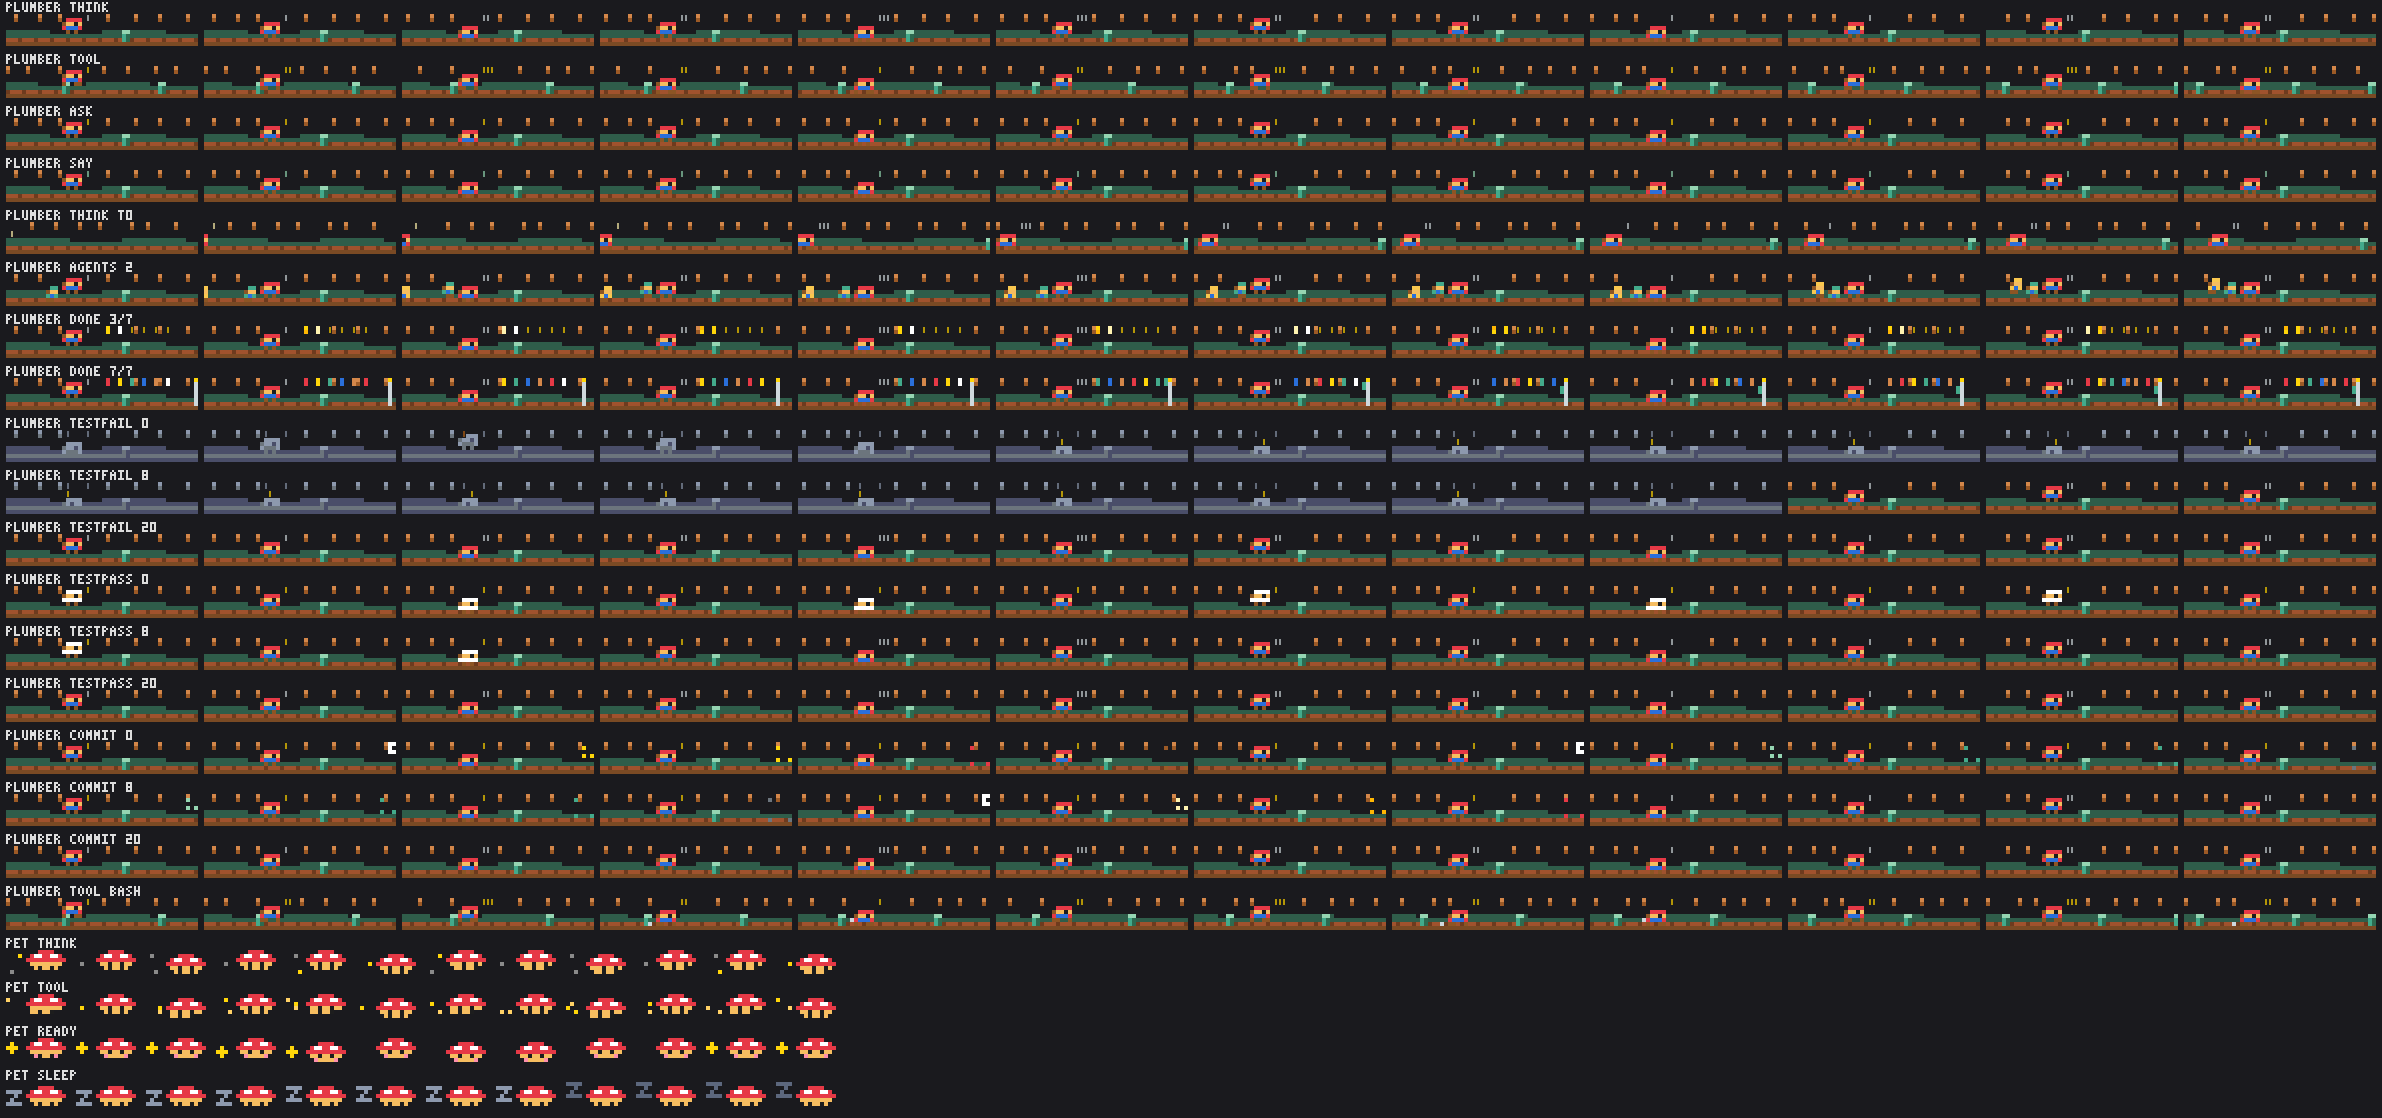
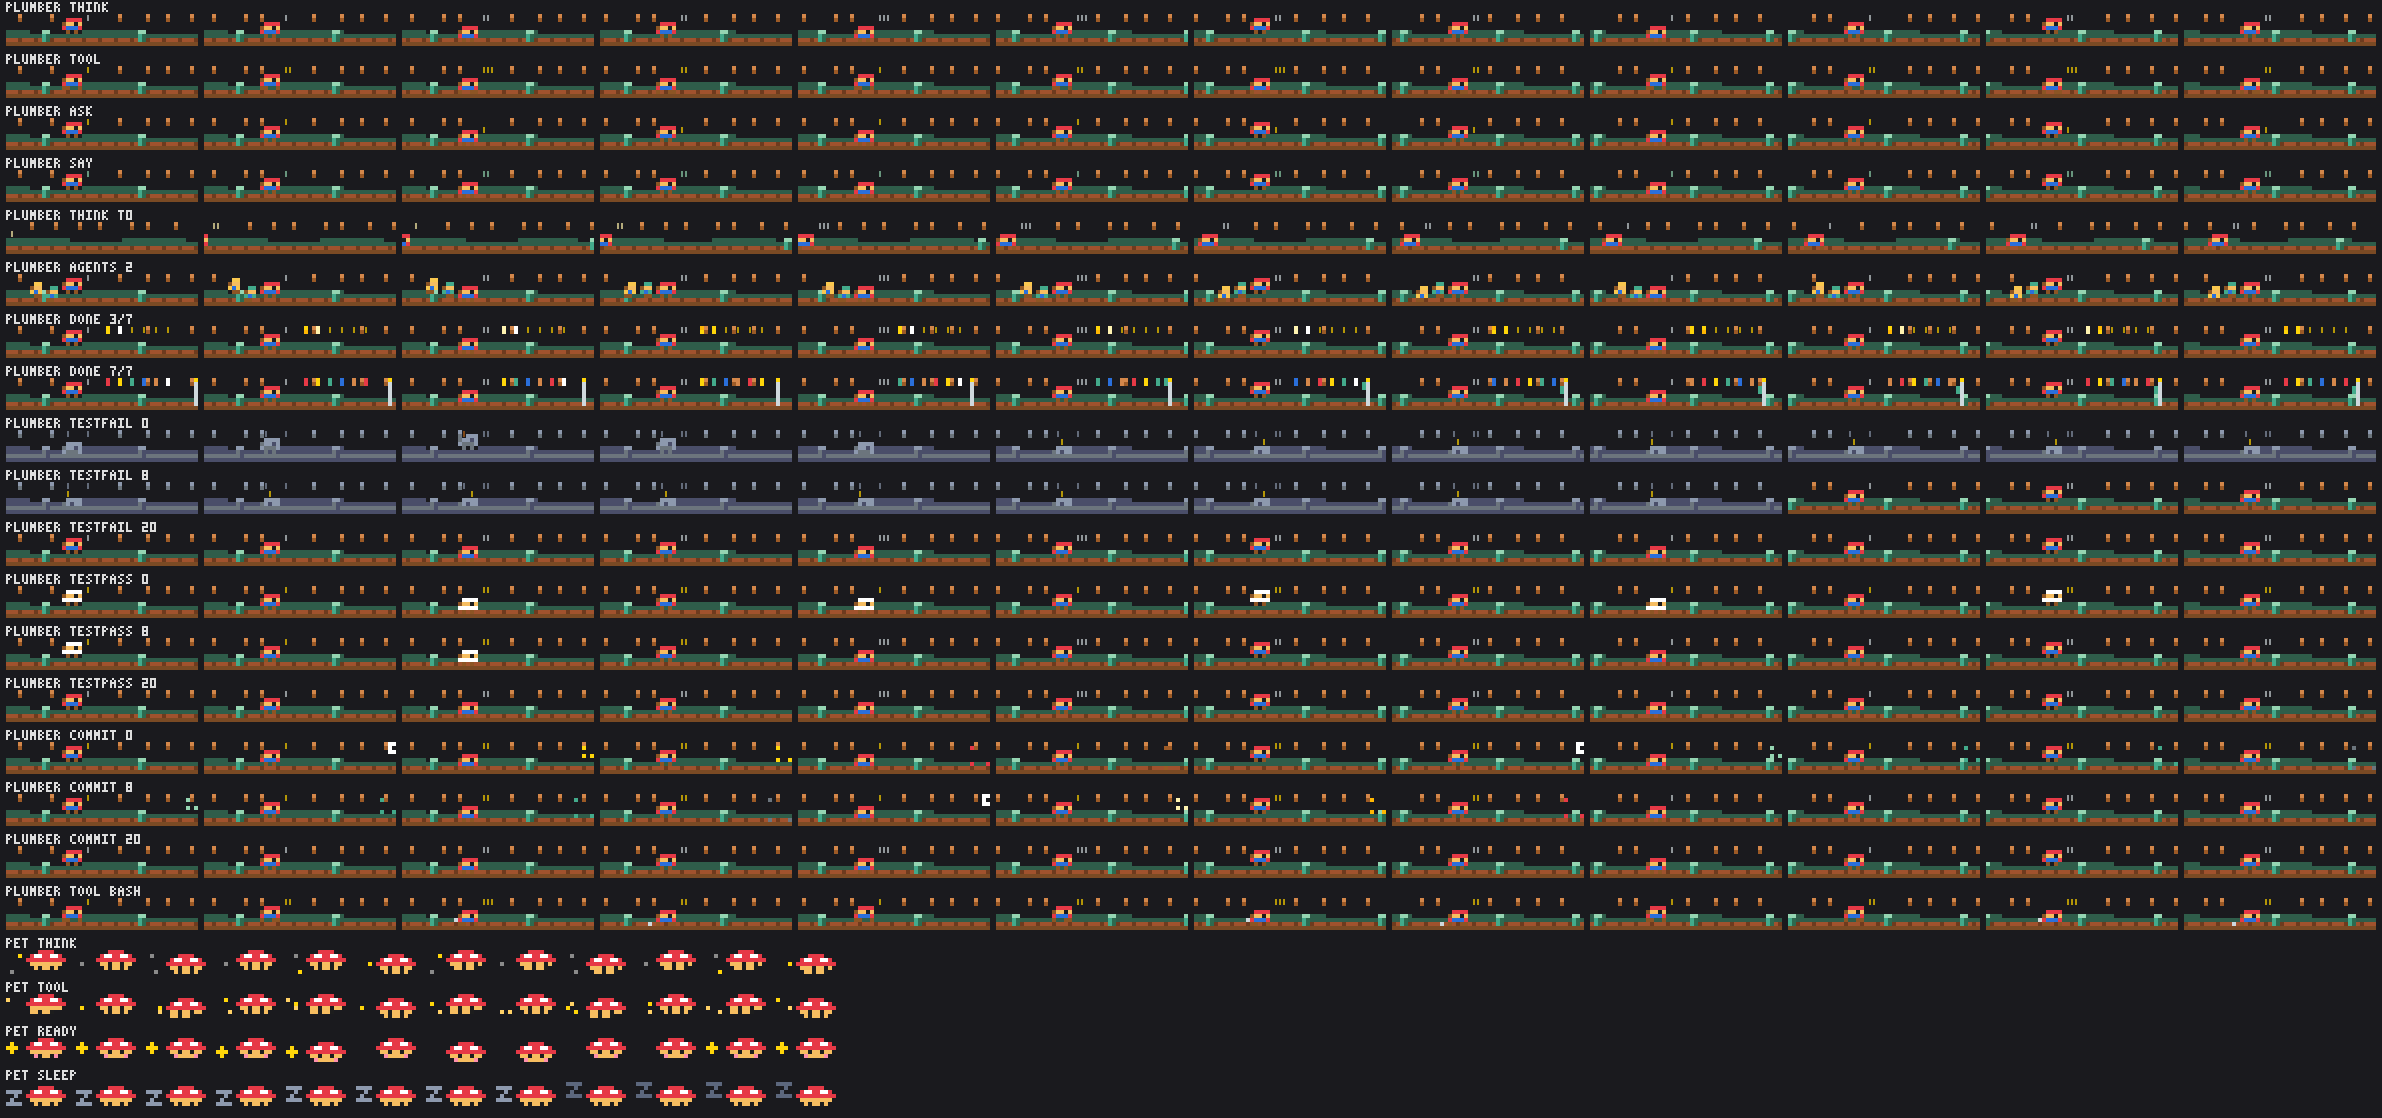
showtime: plumber — scroll on t only and agents greeting in place (review fixes); the near layer a cell a frame in every act with the bricks at half and the hills at a quarter, so a tool act ending no longer snaps the pipes, ground, hills and bricks back (the tool's pace shows as the run cadence, th

diff --git a/showtime/hooks/themes/plumber.ts b/showtime/hooks/themes/plumber.ts
@@ -1,28 +1,27 @@
 // Theme: plumber. Its scene, its words and its pet.
 //
-// The scene: a platformer runner (#e63946) in the left third, the world scrolling past him in three
-// layers: dim hills far (pixel rows 4–5, slowest), single-cell bricks mid along the top row (half the
-// near speed), pipes and the brick ground near (a cell a frame while a tool runs, else every other).
-// Idle, he bounces in place on a twelve-frame cycle while the pipes pass behind him, a sign ahead of
-// his head reading the act (dots, `?`, a note); in a tool he runs, a four-frame step with a hop, the
-// tool's mark for a sign, and jumps each pipe in a six-frame arc (bash: legs every frame, dust). Tasks:
-// `total` ? blocks along the top right (floor-scaled), `done` of them coins spinning on four frames,
-// the newest flashing; at 100% the coins roll colours and a flagpole slides in from the right edge,
-// its flag running down. Each subagent (four at most) is a smaller runner trailing him out of step,
-// running in from the left edge and hopping as it joins. A failed test greys the world: a ? block
-// appears over his head, he bonks it and sits twelve frames under a circling star. A passed test
-// flashes him white under a ★. A commit: three bursts of fireworks over the flag, sixteen frames.
+// The scene: a platformer runner (#e63946) in the left third, the world scrolling past him a cell a
+// frame in three layers: dim hills far (pixel rows 4–5, a quarter of the speed), single-cell bricks
+// mid along the top row (half), pipes and the brick ground near. He walks in from the left edge, then
+// bounces in place on a twelve-frame cycle while idle, a sign ahead of his head reading the act (dots,
+// a bobbing `?`, notes); in a tool he runs, a four-frame step with a hop, the tool's mark for a sign
+// (bash: legs every frame, dust). He jumps each pipe in a six-frame arc. Tasks: `total` ? blocks along
+// the top right (floor-scaled), `done` of them coins spinning on four frames, the newest flashing; at
+// 100% the coins roll colours and a flagpole slides in from the right edge, its flag running down.
+// Each subagent (four at most) is a smaller runner trailing him out of step, hopping in place as it
+// joins. A failed test greys the world: a ? block appears over his head, he bonks it and sits twelve
+// frames under a circling star. A passed test flashes him white under a ★. A commit: three bursts of
+// fireworks over the flag (the right edge without one), sixteen frames.
 //
 // Motion rules (tests/scenes.test.ts): the hills fill pixel row 5 and the ground rows 6–7 across the
-// width, so the test sees cell rows 0–1 only. Every pixel row of a runner starts within a column of its
-// left edge, so his own rows anchor him as he hops; the bounce is a closed walk of single steps two
-// cells high (an idle frame always changes), in a tool the hop and the bricks step on alternate frames
-// and the sign's dot tail every frame, and nothing hops, bonks or sits while walking in. Bricks are
-// single cells four or more apart (a mover in a one-column gap merges two still cells, then exposes one
-// two off; the ? blocks are three apart for that) and skip the zone from the last parked runner to past
+// width, so the test sees cell rows 0–1 only. The bricks step on odd frames and every sign changes its
+// ink on even frames, so a frame never holds. Every pixel row of a runner starts within a column of
+// its left edge, so his own rows anchor him as he hops; the bounce is a walk of single steps two cells
+// high, the arc starts and ends a cell up, and nothing hops, bonks or sits while walking in. Bricks are
+// single cells four or more apart (a mover in a one-column gap merges two still cells, then exposes
+// one two off; the ? blocks are three apart for that) and skip the zone from the last runner to past
 // the sign, coming out a column from a cap. The bonk block and the star start beside his cap, the flag
-// beside a pole that has stood a frame, the fireworks around the pole or at the exempt right edge; a
-// new agent enters at the exempt left edge.
+// beside a pole that has stood a frame, the fireworks around the pole or at the exempt right edge.
 import { canvas, cells, draw, frame, mod, noise, plot, put } from '../cells'
 import type { Canvas, Grid } from '../cells'
 import { SCENE_ROWS } from '../draw'
@@ -46,7 +45,6 @@ const HUD_FROM_RIGHT = 8
 const PIPE_GAP = 20
 const PIPE_JITTER = 8
 const MAX_AGENTS = 4
-const AGENT_W = 3
 const AGENT_PITCH = 4
 /** Columns between one mid brick and the next, before a jitter of up to two. */
 const BRICK_PITCH = 6
@@ -138,16 +136,56 @@ function pipes(near: number, w: number): number[] {
 }
 
 /** His height over the ground: none while he is still walking in; the bonk and the sit on a failed
- * test, the jump over a pipe near him while a tool runs, the run's hop, the idle bounce. */
-function heroY(t: number, s: Signals, hx: number, w: number, near: number, isFail: boolean): number {
+ * test, the jump over a pipe near him, the run's hop in a tool, else the idle bounce. */
+function heroY(t: number, s: Signals, hx: number, w: number, isFail: boolean): number {
   if (hx < homeX(w)) return 0
   if (isFail) return s.newsAge < BONK_FRAMES ? BONK[s.newsAge]! : 0
-  if (s.act !== 'tool') return frame(BOUNCE, t)
-  for (const px of pipes(near, w)) {
+  for (const px of pipes(t, w)) {
     const d = ARC_AHEAD - (px - hx)
     if (d >= 0 && d < ARC.length) return ARC[d]!
   }
-  return mod(near, 4) < 2 ? 1 : 0
+  return s.act === 'tool' ? (mod(t, 4) < 2 ? 1 : 0) : frame(BOUNCE, t)
+}
+
+/** The agents trailing him at AGENT_PITCH, each jogging in place out of step; the newest hops a greeting
+ * where it stands as it joins (and again, harmlessly, when one leaves). None moves while he walks in. */
+function agents(cv: Canvas, t: number, s: Signals, hx: number, isHome: boolean, isFail: boolean): void {
+  const n = Math.min(s.agents, MAX_AGENTS)
+  for (let i = 0; i < n; i++) {
+    let ay = 0
+    if (isHome) ay = i === n - 1 && s.agentsAge < GREET.length ? GREET[s.agentsAge]! : mod(t + 2 * i + 2, 4) < 2 ? 1 : 0
+    const colors = isFail ? { ...HERO_GREY, C: GREY } : { ...HERO_COLORS, C: AGENT_CAPS[i]! }
+    draw(cv, hx - AGENT_PITCH * (i + 1), STAND_Y - ay, [...AGENT, frame(AGENT_LEGS, (t >> 1) + i)], colors)
+  }
+}
+
+/** The tasks along the top right: `count` cells three apart, the `lit` leftmost coins spinning (the
+ * newest flashing, all rolling colours at 100%), the rest ? blocks (returned, drawn as glyphs). At 100%
+ * a pole slides in from the right edge a cell a frame, then its flag appears and runs down. */
+function hud(cv: Canvas, t: number, s: Signals, hudL: number, poleX: number): number[] {
+  const hudR = cv.w - HUD_FROM_RIGHT
+  const count = Math.min(s.total, Math.max(0, Math.floor((hudR - hudL) / HUD_PITCH) + 1))
+  const lit = s.total > count ? Math.floor(s.done * count / s.total) : Math.min(s.done, count)
+  const blocks: number[] = []
+  for (let j = 0; j < count; j++) {
+    const x = hudR - (count - 1 - j) * HUD_PITCH
+    if (j >= lit) { blocks.push(x); continue }
+    let [top, bottom] = frame(COIN, t + j)
+    if (j === lit - 1 && s.doneAge < DONE_FLASH_FRAMES && mod(s.doneAge, 2) === 0) [top, bottom] = [WHITE, WHITE]
+    else if (poleX >= 0 && s.doneAge < DONE_ROLL_FRAMES) top = bottom = frame(PALETTE, j + (s.doneAge >> 1))
+    plot(cv, x, 0, top)
+    plot(cv, x, 1, bottom)
+  }
+  if (poleX >= 0) {
+    for (let py = 0; py <= GROUND_Y; py++) plot(cv, poleX, py, POLE)
+    plot(cv, poleX, 0, GOLD)
+    if (s.doneAge >= FLAG_AT) {
+      const fy = Math.min(2, s.doneAge - FLAG_AT)
+      plot(cv, poleX - 1, fy, FLAG)
+      plot(cv, poleX - 1, fy + 1, FLAG)
+    }
+  }
+  return blocks
 }
 
 /** The far hills: a dim silhouette on pixel rows 4–5, row 5 always filled, drifting at `far`. */
@@ -181,19 +219,21 @@ function fireworks(cv: Canvas, age: number, cx: number, cy: number): void {
   })
 }
 
-/** The sign ahead of his head: the news first, else the act, a dot while the act turns. */
+/** The sign ahead of his head: the news first, else the act, dots while the act turns. Each changes its
+ * ink every other frame at least (a length, or the `?` bobbing a row), so no frame can hold. */
 function sign(
   s: Signals, t: number, age: number, isFail: boolean, isPass: boolean, isCommit: boolean,
-): { text: string; c: string } {
-  if (isFail) return { text: '×', c: GREY }
-  if (isPass) return { text: mod(t, 4) < 2 ? '★' : '☆', c: GOLD }
-  if (isCommit) return { text: '✓', c: GOLD }
-  if (age < TURN_FRAMES) return { text: '·', c: PALE }
-  if (s.act === 'tool') return { text: TOOL_SIGN[s.tool ?? 'other'] + frame(['', '·', '··', '·'], t), c: GOLD }
-  if (s.act === 'ask') return { text: '?', c: GOLD }
-  if (s.act === 'say') return { text: mod(t, 8) < 4 ? '♪' : '♫', c: PIPE_RIM }
-  if (s.act === 'think') return { text: frame(['·', '··', '···', '··'], t >> 1), c: POLE }
-  return { text: frame(['.', '..', '...'], t >> 2), c: POLE }
+): { text: string; c: string; row: number } {
+  const row = age === 0 ? 1 : 0
+  if (isFail) return { text: frame(['×', '×·'], t >> 1), c: GREY, row }
+  if (isPass) return { text: frame(['★', '★·', '☆', '☆·'], t >> 1), c: GOLD, row }
+  if (isCommit) return { text: frame(['✓', '✓·'], t >> 1), c: GOLD, row }
+  if (age < TURN_FRAMES) return { text: frame(['·', '··'], t), c: PALE, row }
+  if (s.act === 'tool') return { text: TOOL_SIGN[s.tool ?? 'other'] + frame(['', '·', '··', '·'], t), c: GOLD, row }
+  if (s.act === 'ask') return { text: '?', c: GOLD, row: mod(t, 4) < 2 ? 0 : 1 }
+  if (s.act === 'say') return { text: frame(['♪', '♪♫', '♫', '♫♪'], t >> 1), c: PIPE_RIM, row }
+  if (s.act === 'think') return { text: frame(['·', '··', '···', '··'], t >> 1), c: POLE, row }
+  return { text: frame(['.', '..', '...', '..'], t >> 1), c: POLE, row }
 }
 
 export function plumberScene(t: number, w: number, s: Signals): Grid {
@@ -204,82 +244,39 @@ export function plumberScene(t: number, w: number, s: Signals): Grid {
   const isPass = s.news === 'testPass' && s.newsAge < PASS_FRAMES
   const isCommit = s.news === 'commit' && s.newsAge < COMMIT_FRAMES
   const age = Math.min(s.actAge, s.toolAge)
-  /** The near layer's offset: a cell a frame while a tool runs, picking up where the slow scroll was. */
-  const since = Math.min(s.actAge, t)
-  const near = isTool ? ((t - since) >> 1) + since : t >> 1
   const rx = homeX(w)
   const hx = heroX(t, w)
-  const hy = STAND_Y - heroY(t, s, hx, w, near, isFail)
+  const hy = STAND_Y - heroY(t, s, hx, w, isFail)
   const sx = hx + SIGN_GAP
   const isHome = hx === rx
   const sitting = isFail && isHome && s.newsAge >= BONK_FRAMES
-  const agents = Math.min(s.agents, MAX_AGENTS)
   const allDone = s.total > 0 && s.done >= s.total
   const poleX = allDone ? Math.max(w - POLE_FROM_RIGHT, w - 1 - s.doneAge) : -1
 
   // Layer 1: the hills, far and slow; layer 2: the ground, bricks and mortar scrolling with the pipes.
-  hills(cv, near / 4, isFail ? GREY_DARK : HILL)
+  hills(cv, t / 4, isFail ? GREY_DARK : HILL)
   for (let x = 0; x < w; x++) {
-    plot(cv, x, GROUND_Y, isFail ? GREY_DIM : mod(x + near, 4) === 3 ? MORTAR : GROUND)
+    plot(cv, x, GROUND_Y, isFail ? GREY_DIM : mod(x + t, 4) === 3 ? MORTAR : GROUND)
     plot(cv, x, GROUND_Y + 1, isFail ? GREY_DARK : GROUND_DARK)
   }
-  for (const px of pipes(near, w)) draw(cv, px, HILL_Y, PIPE_ART, isFail ? PIPE_GREY : PIPE_COLORS)
-  // The agents trailing him: the newest runs in from the left edge to the end of the line.
-  const agentX = (i: number) => {
-    const home = hx - AGENT_PITCH * (i + 1)
-    return i === agents - 1 ? Math.min(home, s.agentsAge - AGENT_W) : home
-  }
-  const parked = agents > 0 && agentX(agents - 1) === hx - AGENT_PITCH * agents ? agents : Math.max(0, agents - 1)
-  // Layer 3: the bricks, mid, behind everything that stands: none from the last parked runner's left
-  // edge to past the sign.
-  const skipL = hx - AGENT_PITCH * parked + 1
-  bricks(cv, (near + 1) >> 1, skipL, sx + SIGN_W + 1, isFail ? GREY : BRICK_LIT, isFail ? GREY_DIM : BRICK_DARK)
-  // Layer 4: the agents, each jogging in place out of step, the newest hopping a greeting as it arrives.
-  for (let i = 0; i < agents; i++) {
-    const ax = agentX(i)
-    const arrived = s.agentsAge - (rx - AGENT_PITCH * (i + 1) + AGENT_W)
-    let ay = 0
-    if (isHome && i < parked) {
-      const greeting = i === agents - 1 && arrived >= 0 && arrived < GREET.length
-      ay = greeting ? GREET[arrived]! : mod(t + 2 * i + 2, 4) < 2 ? 1 : 0
-    }
-    const colors = isFail ? { ...HERO_GREY, C: GREY } : { ...HERO_COLORS, C: AGENT_CAPS[i]! }
-    draw(cv, ax, STAND_Y - ay, [...AGENT, frame(AGENT_LEGS, (t >> 1) + i)], colors)
-  }
-  // Layer 5: the hero: sitting after the bonk, else standing or running, a flash of white on a pass.
+  for (const px of pipes(t, w)) draw(cv, px, HILL_Y, PIPE_ART, isFail ? PIPE_GREY : PIPE_COLORS)
+  // Layer 3: the bricks, mid, behind everything that stands: none from the last runner's left edge to
+  // past the sign.
+  const skipL = hx - AGENT_PITCH * Math.min(s.agents, MAX_AGENTS) + 1
+  bricks(cv, (t + 1) >> 1, skipL, sx + SIGN_W + 1, isFail ? GREY : BRICK_LIT, isFail ? GREY_DIM : BRICK_DARK)
+  // Layer 4: the agents; layer 5: the hero, sitting after the bonk, else standing or running, a flash
+  // of white on a pass.
+  agents(cv, t, s, hx, isHome, isFail)
   let heroColors: Record<string, string> = isFail ? HERO_GREY : HERO_COLORS
   if (isPass && mod(t, 2) === 0) heroColors = { ...HERO_COLORS, R: WHITE, B: WHITE }
   if (sitting) draw(cv, hx, GROUND_Y - 2, SIT, heroColors)
   else {
     const running = isTool || !isHome
-    const legs = running ? frame(LEGS_RUN, bash ? near : near >> 1) : LEGS_STAND
+    const legs = running ? frame(LEGS_RUN, bash ? t : t >> 1) : LEGS_STAND
     draw(cv, hx, hy, [...HERO, legs], heroColors)
     if (bash && hy === STAND_Y) plot(cv, hx - 1 - mod(t, 2), HILL_Y + 1 + mod(t, 2), DUST)
   }
-  // Tasks: ? blocks (glyphs, below) and coins along the top right, the newest flashing, all rolling at 100%.
-  const hudR = w - HUD_FROM_RIGHT
-  const count = Math.min(s.total, Math.max(0, Math.floor((hudR - (rx + SIGN_GAP + HUD_GAP)) / HUD_PITCH) + 1))
-  const lit = s.total > count ? Math.floor(s.done * count / s.total) : Math.min(s.done, count)
-  const blocks: number[] = []
-  for (let j = 0; j < count; j++) {
-    const x = hudR - (count - 1 - j) * HUD_PITCH
-    if (j >= lit) { blocks.push(x); continue }
-    let [top, bottom] = frame(COIN, t + j)
-    if (j === lit - 1 && s.doneAge < DONE_FLASH_FRAMES && mod(s.doneAge, 2) === 0) [top, bottom] = [WHITE, WHITE]
-    else if (allDone && s.doneAge < DONE_ROLL_FRAMES) top = bottom = frame(PALETTE, j + (s.doneAge >> 1))
-    plot(cv, x, 0, top)
-    plot(cv, x, 1, bottom)
-  }
-  // The flagpole at 100%: in from the right edge a cell a frame, then the flag runs down it.
-  if (poleX >= 0) {
-    for (let py = 0; py <= GROUND_Y; py++) plot(cv, poleX, py, POLE)
-    plot(cv, poleX, 0, GOLD)
-    if (s.doneAge >= FLAG_AT) {
-      const fy = Math.min(2, s.doneAge - FLAG_AT)
-      plot(cv, poleX - 1, fy, FLAG)
-      plot(cv, poleX - 1, fy + 1, FLAG)
-    }
-  }
+  const blocks = hud(cv, t, s, rx + SIGN_GAP + HUD_GAP, poleX)
   if (isCommit) fireworks(cv, s.newsAge, poleX >= 0 ? poleX : w - 1, 1)
 
   const g = cells(cv)
@@ -291,9 +288,9 @@ export function plumberScene(t: number, w: number, s: Signals): Grid {
     const star = frame(['✦', '✧'], s.newsAge >> 1)
     if (sitting) put(g, hx + 1 + frame([0, 1, 2, 1], s.newsAge), 1, star, { c: GOLD, b: true })
   }
-  // The sign ahead of his head: a dot beside it the frame the act turns, rising into place next frame.
-  const { text, c } = sign(s, t, age, isFail, isPass, isCommit)
-  put(g, sx, age === 0 ? 1 : 0, text, { c, b: s.act !== 'think' || isFail || isPass || isCommit })
+  // The sign ahead of his head, a row down the frame the act turns.
+  const { text, c, row } = sign(s, t, age, isFail, isPass, isCommit)
+  put(g, sx, row, text, { c, b: s.act !== 'think' || isFail || isPass || isCommit })
   return g
 }
 
